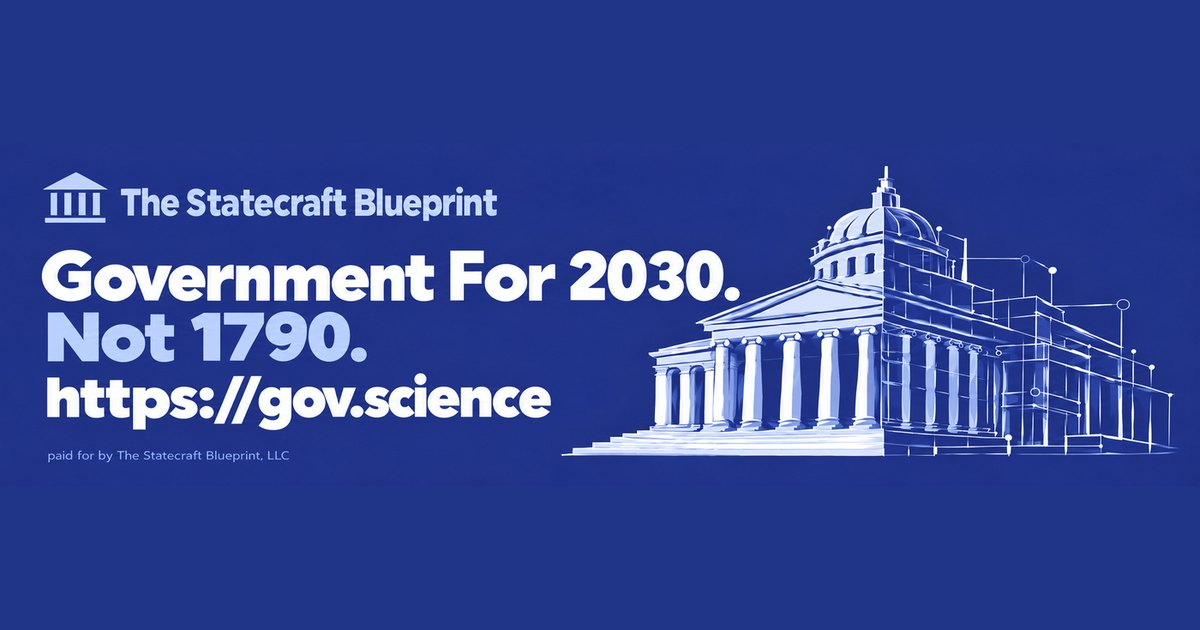
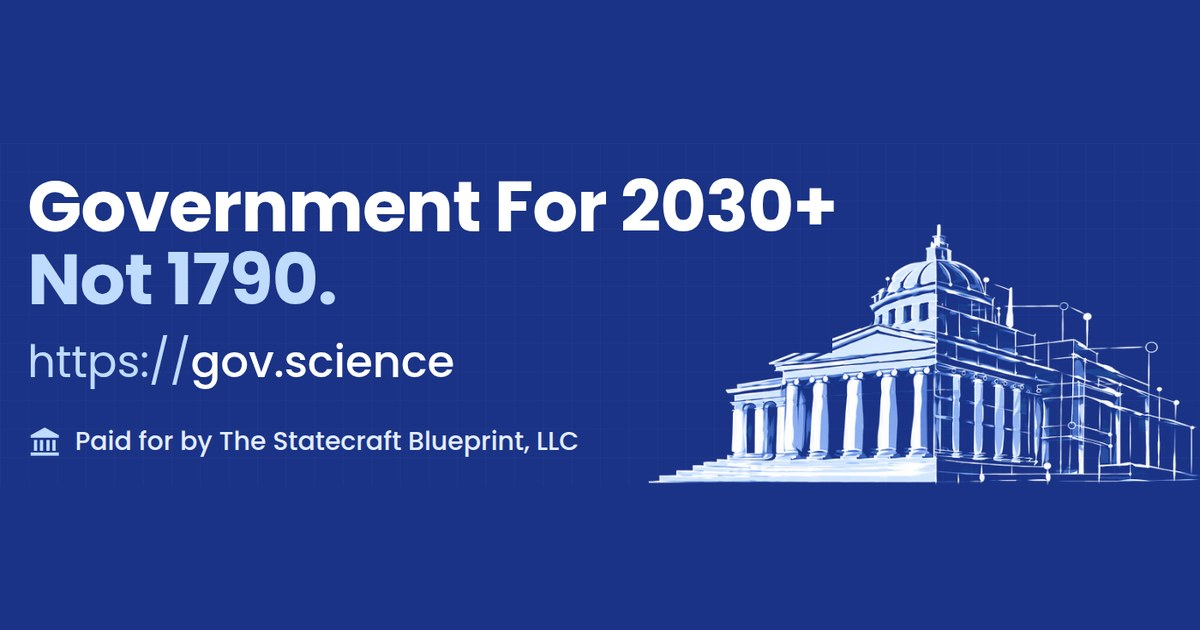
Match the site to the revised billboard: "Government For 2030+"
- Headline, page title, share title and share text now read
  "Government For 2030+ Not 1790." to repeat the board exactly
- Indigo and ice-blue sampled from the new board artwork
- Capitol art re-cut from the new board with a transparent background
- Share card rebuilt from the revised billboard design

Claude-Session: https://claude.ai/code/session_011HkCew3295VBuLNxNjQcBF

Changed region(s): [[0.0, 0.2714, 1.0, 0.7841]]

diff --git a/docs/index.html b/docs/index.html
@@ -3,14 +3,14 @@
 <head>
 <meta charset="utf-8">
 <meta name="viewport" content="width=device-width, initial-scale=1, viewport-fit=cover">
-<title>gov.science: Government for 2030. Not 1790.</title>
+<title>gov.science: Government For 2030+ Not 1790.</title>
 <meta name="description" content="Government doesn't work the way anything else in modern life does. It hasn't been redesigned since 1790. gov.science is about the study of how government makes laws, and how to design it to get better.">
 <link rel="canonical" href="https://gov.science/">
 <link rel="icon" href="favicon.svg" type="image/svg+xml">
-<meta name="theme-color" content="#203488">
+<meta name="theme-color" content="#1a3387">
 <meta property="og:type" content="website">
 <meta property="og:url" content="https://gov.science/">
-<meta property="og:title" content="Government for 2030. Not 1790.">
+<meta property="og:title" content="Government For 2030+ Not 1790.">
 <meta property="og:description" content="Government doesn't work the way anything else in modern life does. It hasn't been redesigned since 1790. gov.science is about the study of how government makes laws, and how to design it to get better.">
 <meta property="og:image" content="https://gov.science/assets/social-card.jpg">
 <meta property="og:image:width" content="1200">
@@ -22,9 +22,9 @@
 <link rel="stylesheet" href="https://fonts.googleapis.com/css2?family=Poppins:wght@600;700;800&family=Source+Serif+4:ital,opsz,wght@0,8..60,400;0,8..60,600;1,8..60,400&display=swap">
 <style>
 :root{
-  --indigo:#203488;      /* sampled from the billboard */
+  --indigo:#1a3387;      /* sampled from the billboard */
   --indigo-deep:#172667;
-  --lavender:#b9bdf2;    /* "Not 1790." */
+  --lavender:#bfdbfd;    /* "Not 1790." */
   --chalk:#ffffff;
   --ink:#1b1f3a;
   --ink-soft:#4a4f72;
@@ -168,10 +168,10 @@ footer .fine{font:400 .8rem/1.5 var(--display);color:#9aa0d9;margin:0}
         <svg viewBox="0 0 32 32" aria-hidden="true" fill="currentColor"><path d="M16 3 3 10v2.5h26V10z"/><rect x="6" y="14.5" width="3" height="10"/><rect x="11.5" y="14.5" width="3" height="10"/><rect x="17.5" y="14.5" width="3" height="10"/><rect x="23" y="14.5" width="3" height="10"/><rect x="3" y="26" width="26" height="3"/></svg>
         The Statecraft Blueprint
       </a>
-      <h1>Government for 2030. <span>Not 1790.</span></h1>
+      <h1>Government For 2030+ <span>Not 1790.</span></h1>
       <p class="lede">If you typed this in because you're wondering what 1790 has to do with anything, good. That's the question I was hoping you'd ask.</p>
     </div>
-    <div class="art"><img src="assets/capitol.webp" alt="The U.S. Capitol drawn half as marble, half as an architect's blueprint" width="760" height="360"></div>
+    <div class="art"><img src="assets/capitol.webp" alt="The U.S. Capitol drawn half as marble, half as an architect's blueprint" width="722" height="343"></div>
   </div>
 </header>
 
@@ -331,7 +331,7 @@ footer .fine{font:400 .8rem/1.5 var(--display);color:#9aa0d9;margin:0}
 <script>
 (function(){
   var btn=document.getElementById('share'), toast=document.getElementById('toast');
-  var url='https://gov.science', text='Government for 2030. Not 1790.';
+  var url='https://gov.science', text='Government For 2030+ Not 1790.';
   btn.addEventListener('click',function(){
     if(navigator.share){navigator.share({title:'gov.science',text:text,url:url}).catch(function(){});return;}
     var done=function(){toast.hidden=false;setTimeout(function(){toast.hidden=true},1800)};

diff --git a/docs/404.html b/docs/404.html
@@ -1,5 +1,5 @@
 <!doctype html>
 <html lang="en"><head><meta charset="utf-8"><meta name="viewport" content="width=device-width, initial-scale=1">
 <title>Not found | gov.science</title><link rel="icon" href="/favicon.svg" type="image/svg+xml">
-<style>body{margin:0;min-height:100vh;display:grid;place-items:center;background:#203488;color:#fff;font:400 1.1rem/1.6 Georgia,serif;padding:24px;text-align:center}h1{font:800 2.2rem/1.1 system-ui,sans-serif;margin:0 0 .6rem}a{color:#b9bdf2}</style></head>
+<style>body{margin:0;min-height:100vh;display:grid;place-items:center;background:#1a3387;color:#fff;font:400 1.1rem/1.6 Georgia,serif;padding:24px;text-align:center}h1{font:800 2.2rem/1.1 system-ui,sans-serif;margin:0 0 .6rem}a{color:#bfdbfd}</style></head>
 <body><main><h1>This page isn't here.</h1><p>But the one you're looking for probably is. <a href="/">Go to gov.science</a></p></main></body></html>
